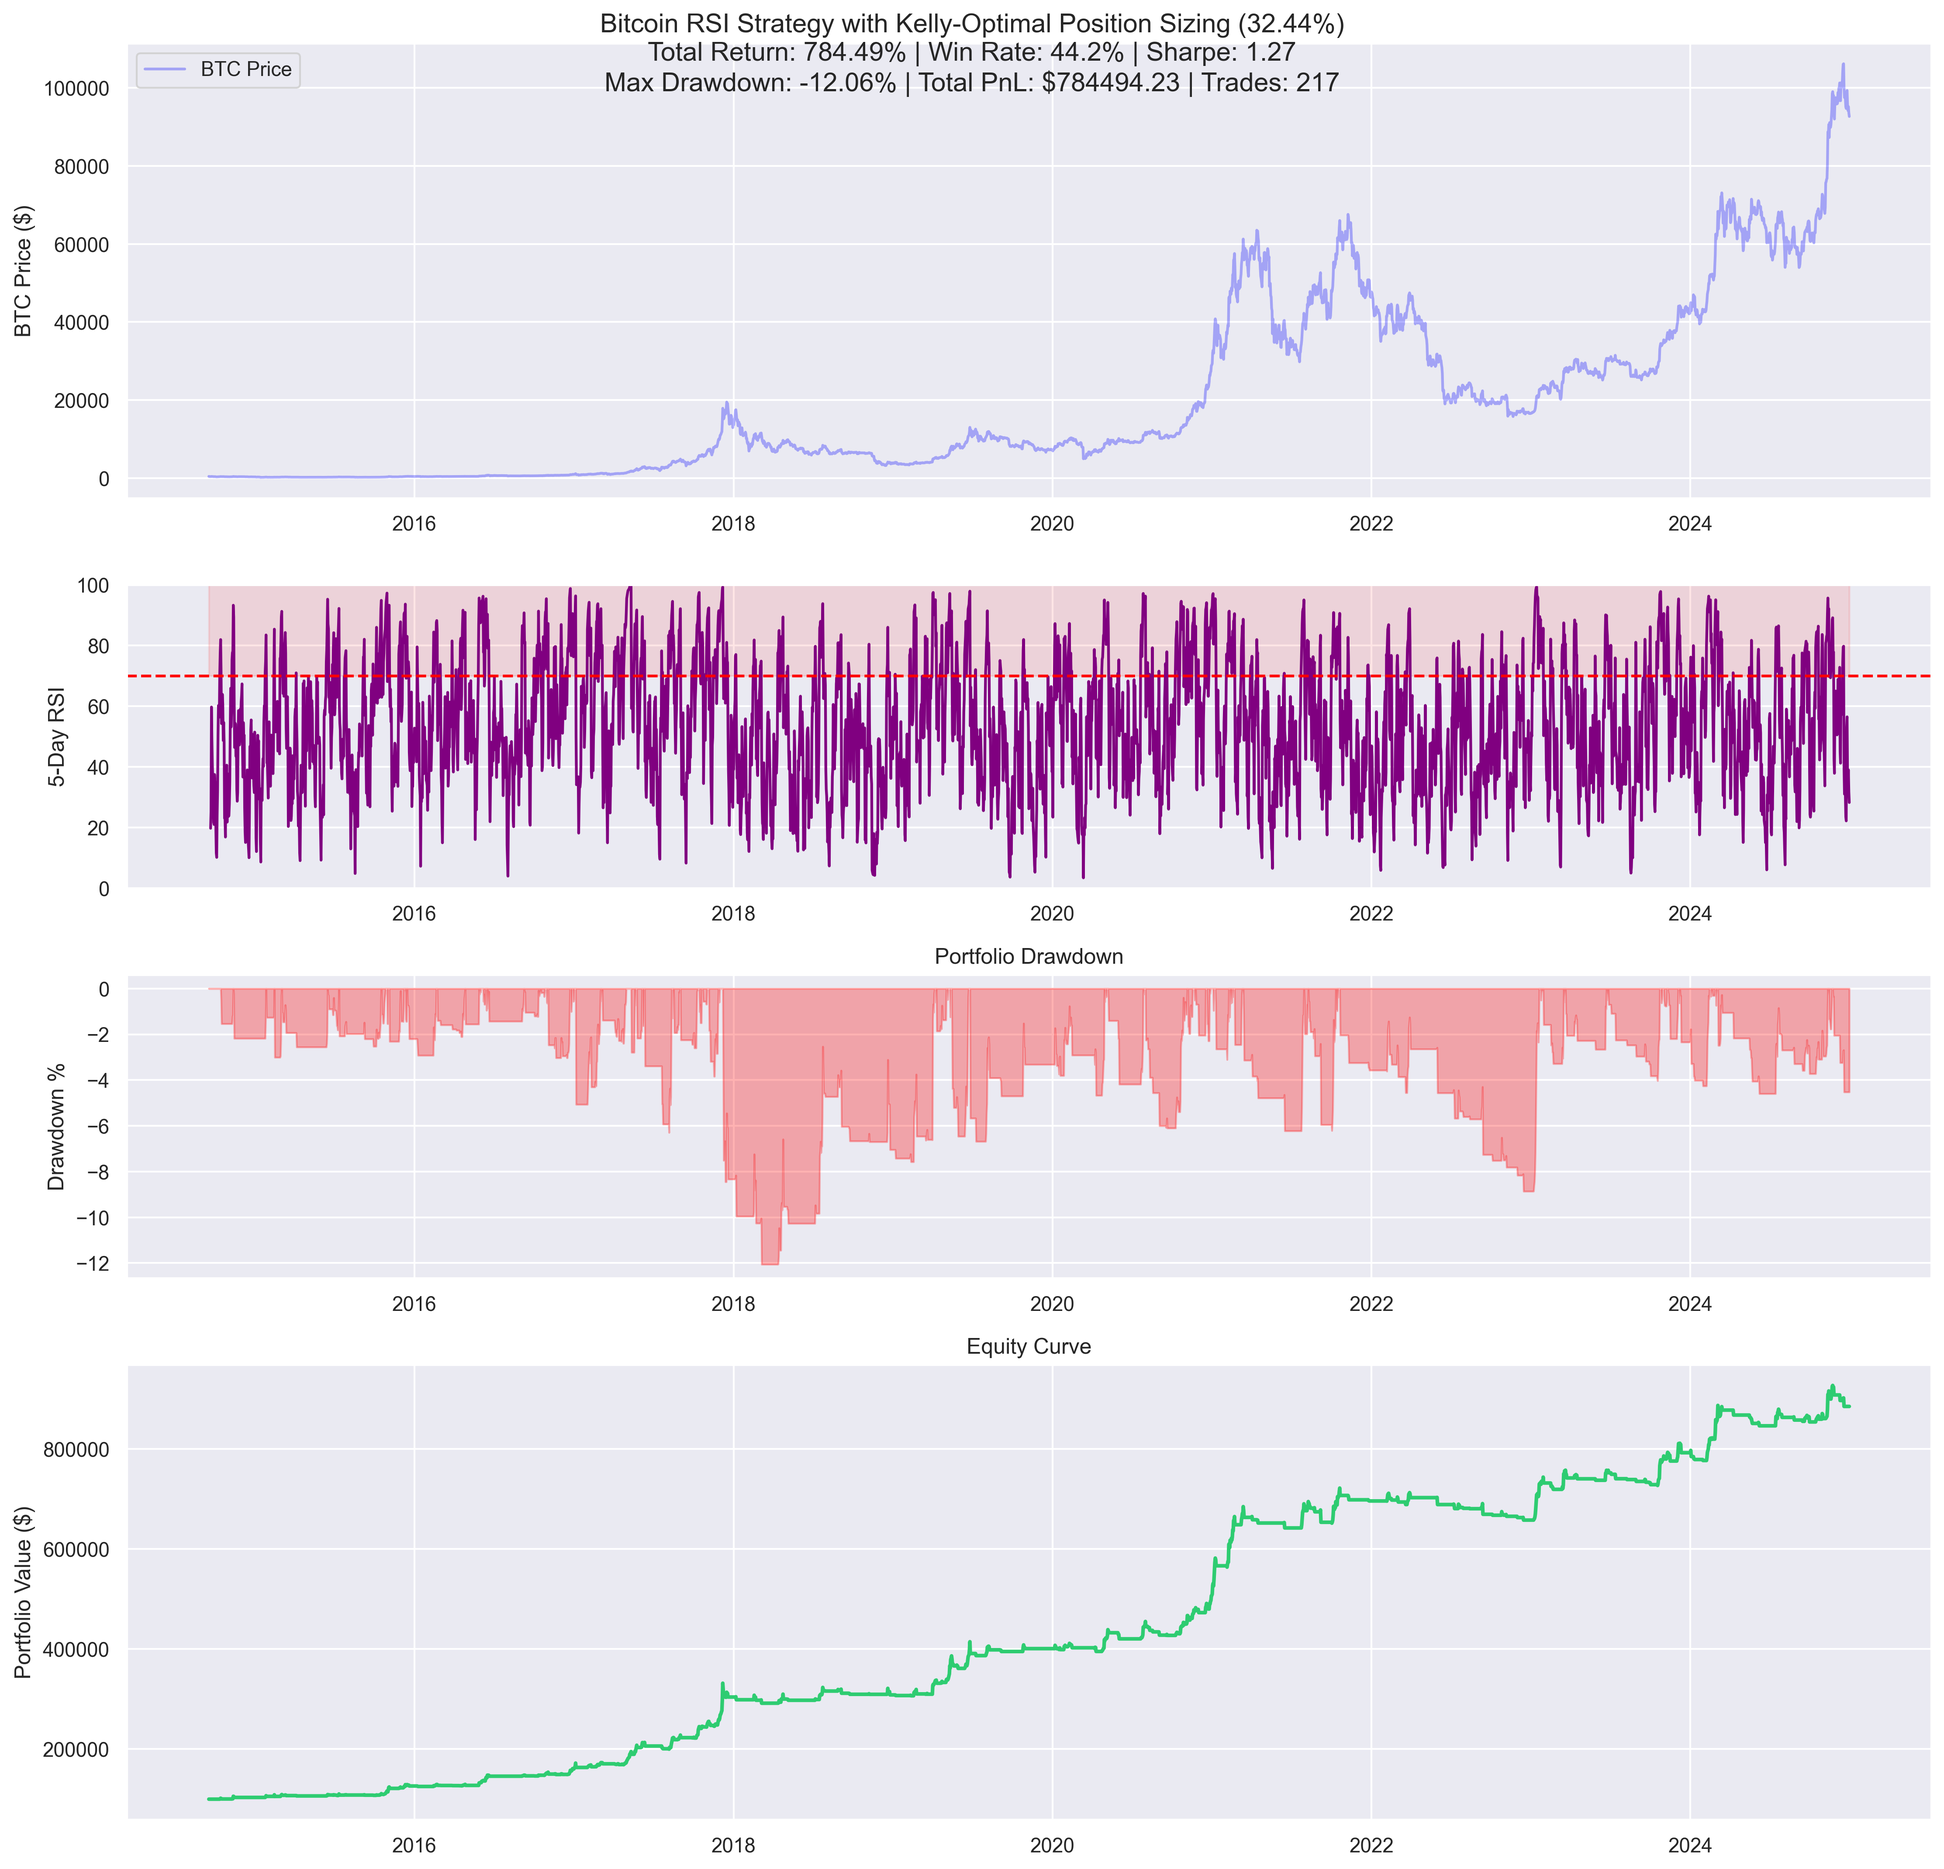
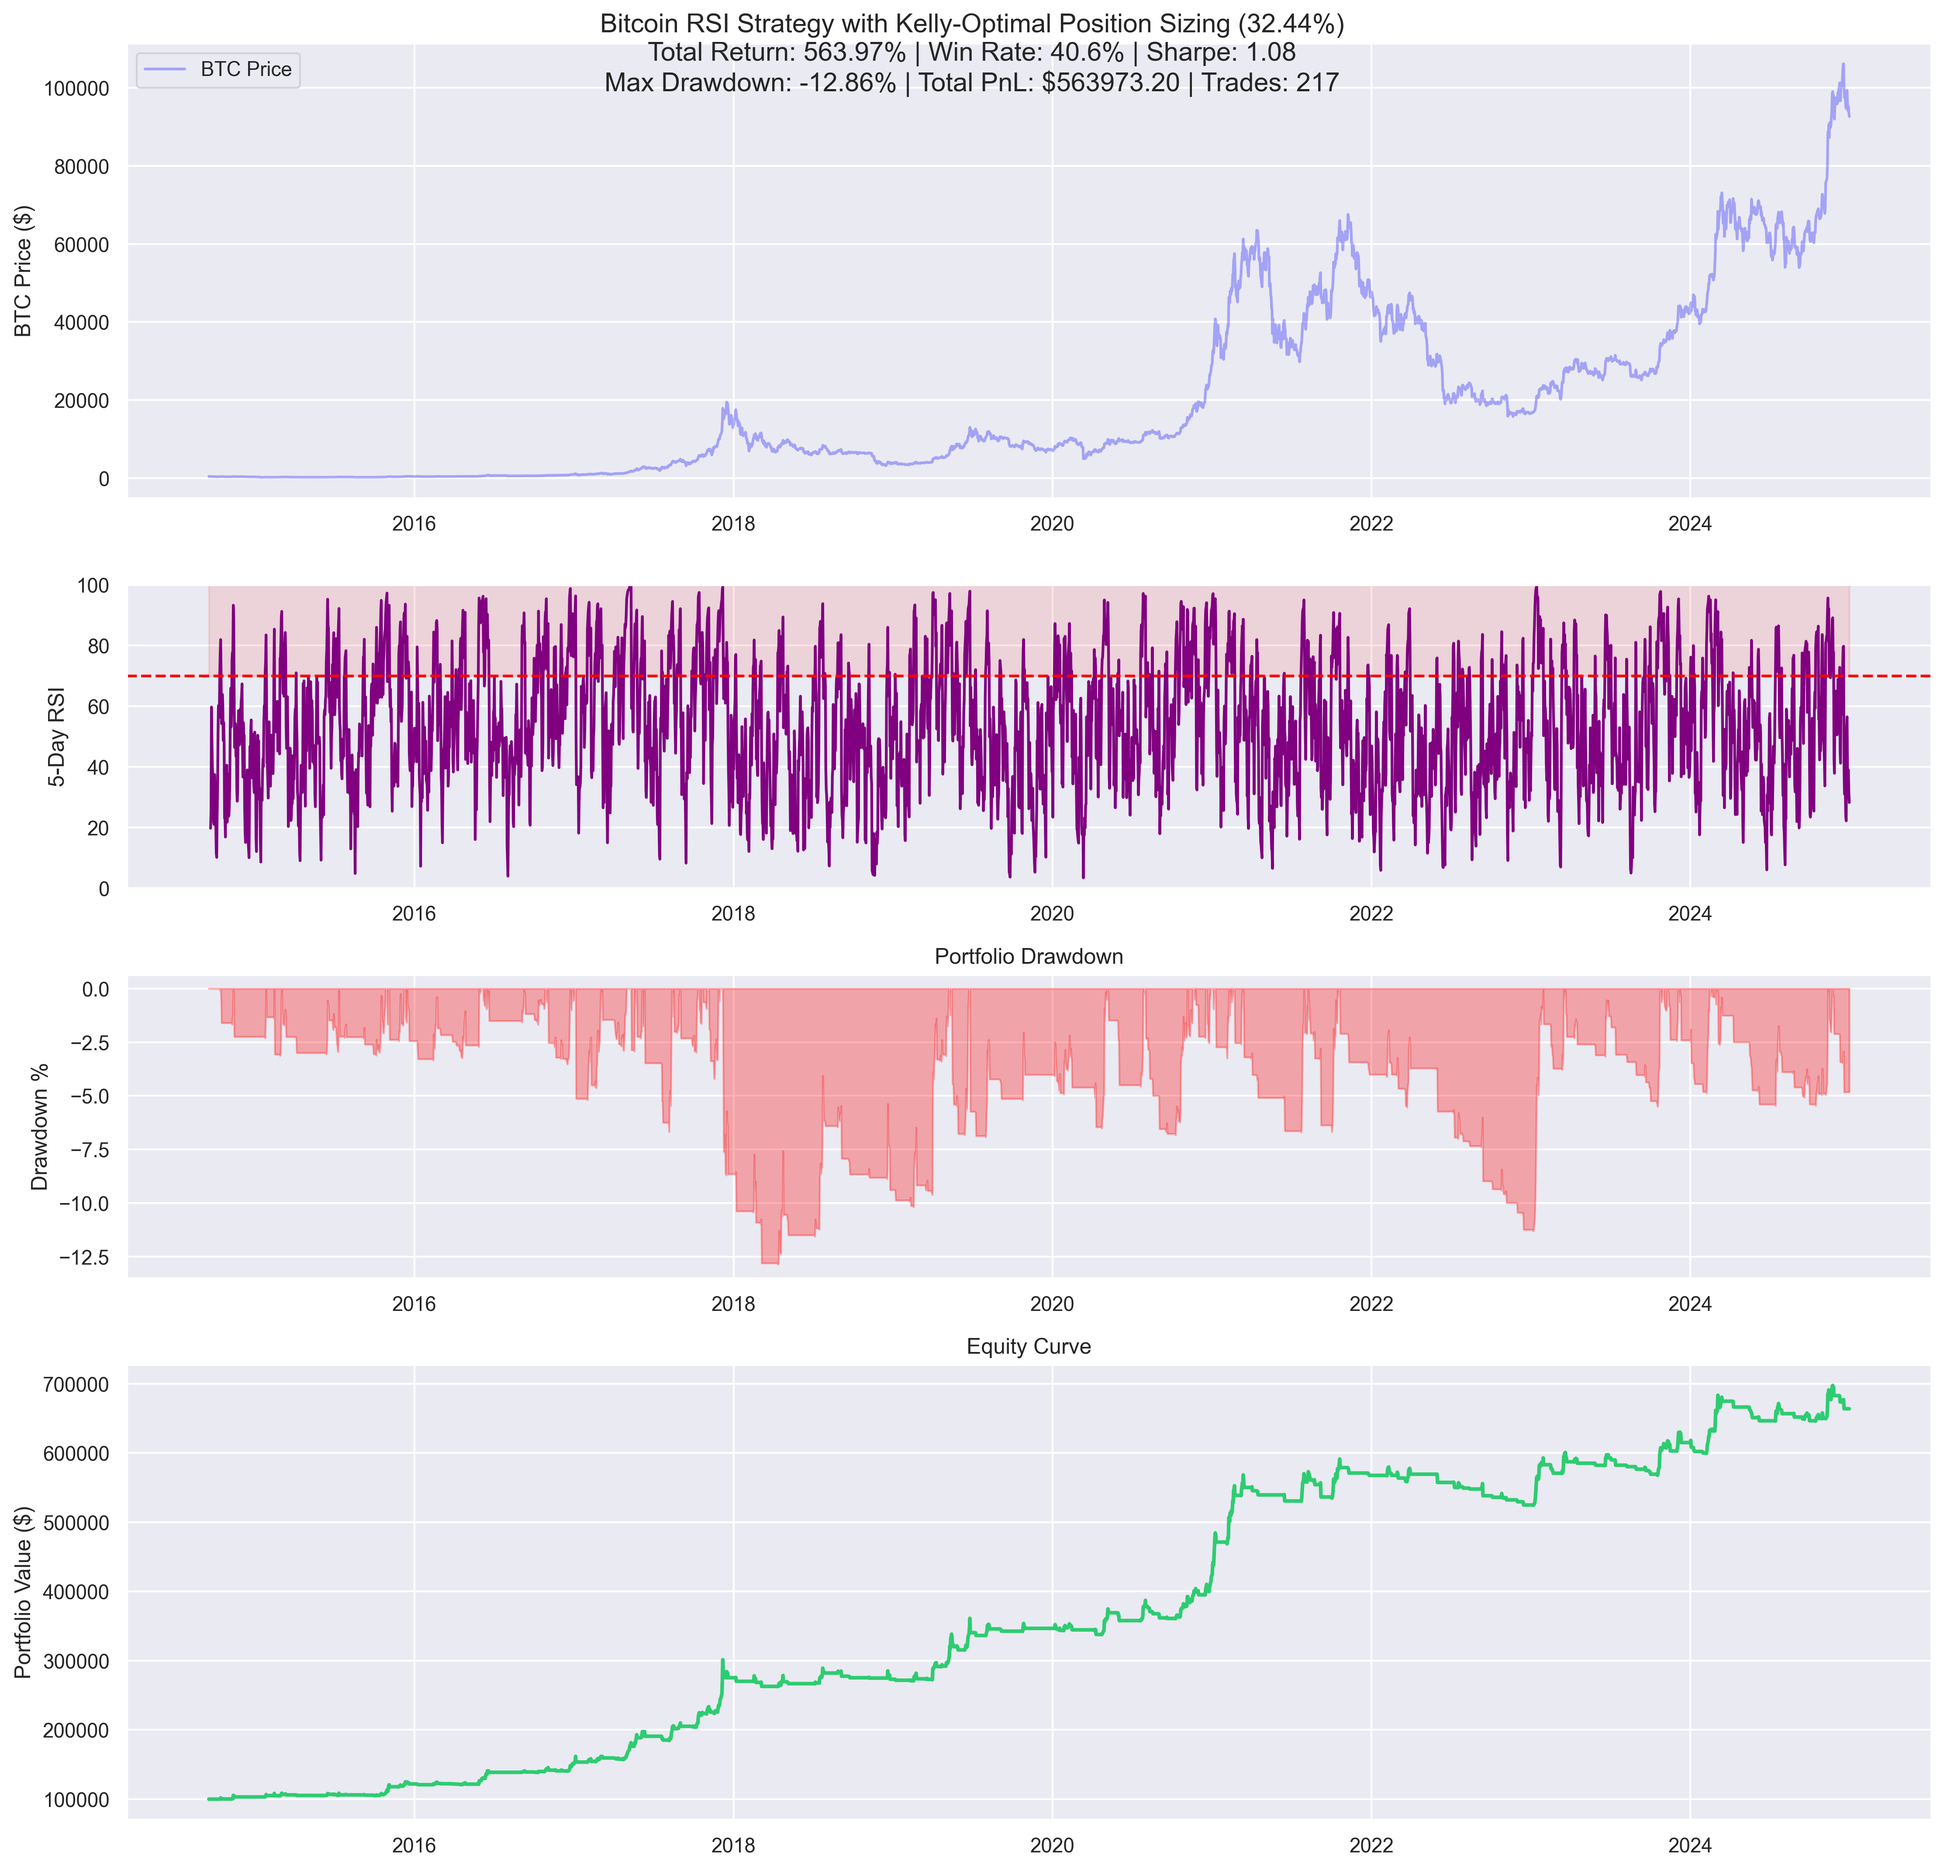
feat: implement Binance fee structure (0.1% taker + 0.1% slippage), update docs and performance metrics

diff --git a/rsi_strategy.py b/rsi_strategy.py
@@ -12,6 +12,27 @@ was derived from fixed-size backtesting analysis that showed:
 Kelly Formula: K% = W - [(1-W)/R]
             = 0.4424 - [(1-0.4424)/4.73]
             = 32.44%
+
+Trading costs (Binance):
+- Trading fees: 0.1% per trade (taker fee)
+- Slippage: 0.1% per trade (conservative estimate)
+- Total round trip cost: 0.4%
+
+Fee Structure Reasoning:
+1. Using taker fees (0.1%) instead of maker fees because:
+   - Strategy requires immediate execution on RSI signals
+   - Large position sizes (32.44%) make waiting for maker orders risky
+   - Conservative assumption for backtesting accuracy
+2. Slippage estimate (0.1%) accounts for:
+   - Large position sizes impacting market price
+   - Typical BTC/USDT spread on Binance
+   - Market impact during volatile periods
+
+Note: While fees could be optimized through:
+- Using BNB for 25% fee discount
+- Market making with limit orders
+- VIP levels for lower fees
+We maintain the conservative 0.1% fee assumption for robust backtesting.
 """
 
 import pandas as pd
@@ -35,6 +56,8 @@ RSI_WINDOW = 5
 RSI_OVERBOUGHT = 70
 KELLY_FRACTION = 0.3244  # Derived from fixed-size analysis
 INITIAL_CAPITAL = 100000
+TRADING_FEE_PCT = 0.001  # 0.1% per trade
+SLIPPAGE_PCT = 0.001    # 0.1% per trade
 
 # Calculate RSI
 rsi = RSIIndicator(close=df['Close'], window=RSI_WINDOW)
@@ -65,28 +88,36 @@ for i in range(RSI_WINDOW, len(df)):
     # Long entry signal (RSI overbought)
     if not position and current_rsi > RSI_OVERBOUGHT:
         position = True
-        current_shares = trade_size / current_price
+        # Apply entry fees and slippage
+        effective_entry_price = current_price * (1 + TRADING_FEE_PCT + SLIPPAGE_PCT)
+        trade_size = current_portfolio_value * KELLY_FRACTION
+        current_shares = trade_size / effective_entry_price
         capital -= trade_size
-        entry_portfolio_value = current_portfolio_value  # Store entry portfolio value
+        entry_portfolio_value = current_portfolio_value
         
         trades.append({
             'date': df.index[i],
             'type': 'BUY',
             'price': current_price,
+            'effective_price': effective_entry_price,
             'shares': current_shares,
             'trade_size': trade_size,
+            'fees': trade_size * TRADING_FEE_PCT,
+            'slippage': trade_size * SLIPPAGE_PCT,
             'portfolio_value': current_portfolio_value
         })
     
     # Long exit signal (RSI no longer overbought)
     elif position and current_rsi < RSI_OVERBOUGHT:
         position = False
-        exit_value = current_shares * current_price
-        trade_pnl = exit_value - trade_size  # Individual trade PnL
-        capital += exit_value  # Add the exit value back to capital
+        # Apply exit fees and slippage
+        effective_exit_price = current_price * (1 - TRADING_FEE_PCT - SLIPPAGE_PCT)
+        exit_value = current_shares * effective_exit_price
+        trade_pnl = exit_value - trade_size
+        capital += exit_value
         
         # Calculate strategy PnL
-        exit_portfolio_value = capital  # Current capital after exit
+        exit_portfolio_value = capital
         strategy_pnl = exit_portfolio_value - entry_portfolio_value
         total_pnl += strategy_pnl
         
@@ -94,10 +125,13 @@ for i in range(RSI_WINDOW, len(df)):
             'date': df.index[i],
             'type': 'SELL',
             'price': current_price,
+            'effective_price': effective_exit_price,
             'shares': current_shares,
             'trade_size': trade_size,
             'trade_pnl': trade_pnl,
             'strategy_pnl': strategy_pnl,
+            'fees': exit_value * TRADING_FEE_PCT,
+            'slippage': exit_value * SLIPPAGE_PCT,
             'portfolio_value': exit_portfolio_value,
             'return': (trade_pnl / trade_size) * 100
         })

diff --git a/README.md b/README.md
@@ -8,7 +8,8 @@ The strategy implements a mathematically rigorous approach:
 - Uses 5-period RSI to identify overbought conditions (RSI > 70)
 - Implements Kelly-optimal position sizing (32.44%)
 - Maintains a long-only approach with clear entry/exit rules
-- Achieved 784.49% return in backtesting ($784,494 total profit)
+- Includes realistic Binance trading fees and slippage
+- Achieved 563.97% return in backtesting ($563,973 total profit)
 
 ![Strategy Visualization](rsi_strategy.png)
 
@@ -22,8 +23,31 @@ The strategy implements a mathematically rigorous approach:
   - Average Loss: 2.14%
   - Win/Loss Ratio: 4.73
   - Kelly Formula: K% = W - [(1-W)/R] = 32.44%
+- **Trading Costs**:
+  - Trading Fees: 0.1% per trade (taker fee)
+  - Slippage: 0.1% per trade
+  - Total Round Trip Cost: 0.4%
 - **Risk Management**: Integrated drawdown monitoring and position size adjustment
 - **Performance Analytics**: Comprehensive visualization of trades, equity, and risk metrics
+
+## Trading Cost Implementation
+
+The strategy uses conservative fee assumptions for robust backtesting:
+
+1. **Taker Fees (0.1%)**:
+   - Strategy requires immediate execution on RSI signals
+   - Large position sizes (32.44%) make waiting for maker orders risky
+   - Conservative assumption for backtesting accuracy
+
+2. **Slippage (0.1%)**:
+   - Accounts for large position sizes impacting market price
+   - Considers typical BTC/USDT spread on Binance
+   - Factors in market impact during volatile periods
+
+3. **Potential Optimizations** (not implemented):
+   - Using BNB for 25% fee discount
+   - Market making with limit orders
+   - VIP levels for lower fees
 
 ## Requirements
 
@@ -87,14 +111,20 @@ The strategy will:
 
 ## Strategy Performance
 
-Latest backtest results with Kelly-optimal position sizing:
-- Total Return: 784.49%
-- Win Rate: 44.2%
-- Total PnL: $784,494.23
+Latest backtest results with Kelly-optimal position sizing and trading costs:
+- Total Return: 563.97%
+- Win Rate: 40.6%
+- Total PnL: $563,973.20
 - Total Trades: 217
-- Sharpe Ratio: 1.27
-- Maximum Drawdown: -12.06%
-- Current Drawdown: -4.53%
+- Sharpe Ratio: 1.08
+- Maximum Drawdown: -12.86%
+- Current Drawdown: -4.83%
+
+These results include:
+- Full trading costs (0.4% round trip)
+- Conservative taker fees (0.1% per trade)
+- Realistic slippage estimates (0.1% per trade)
+- No fee optimizations applied
 
 ## Kelly Criterion Implementation
 
